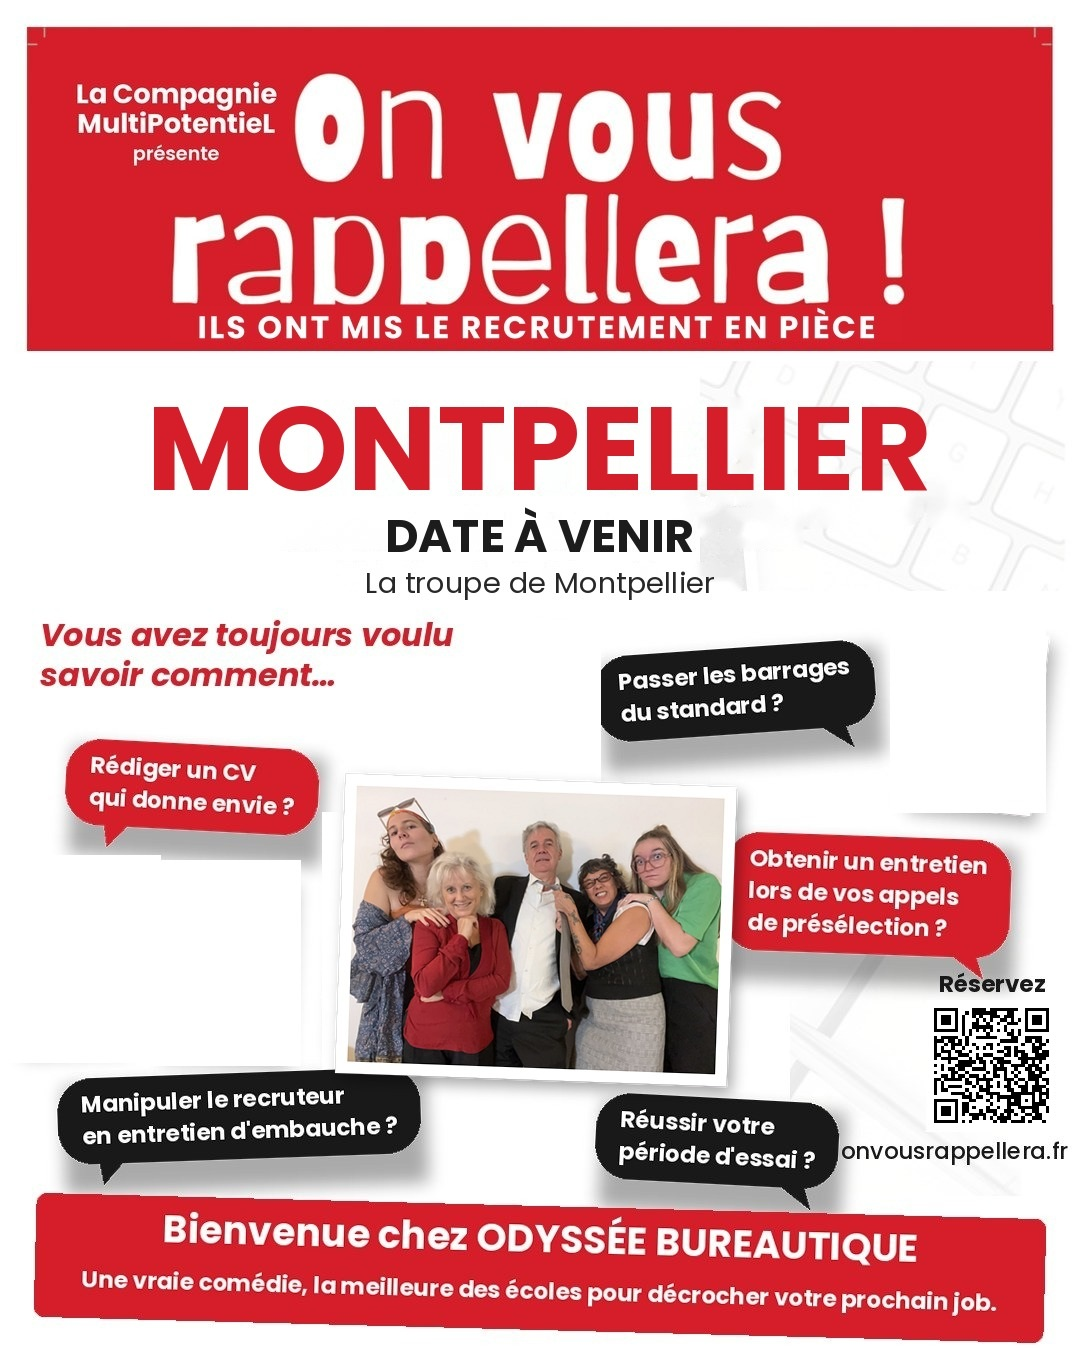
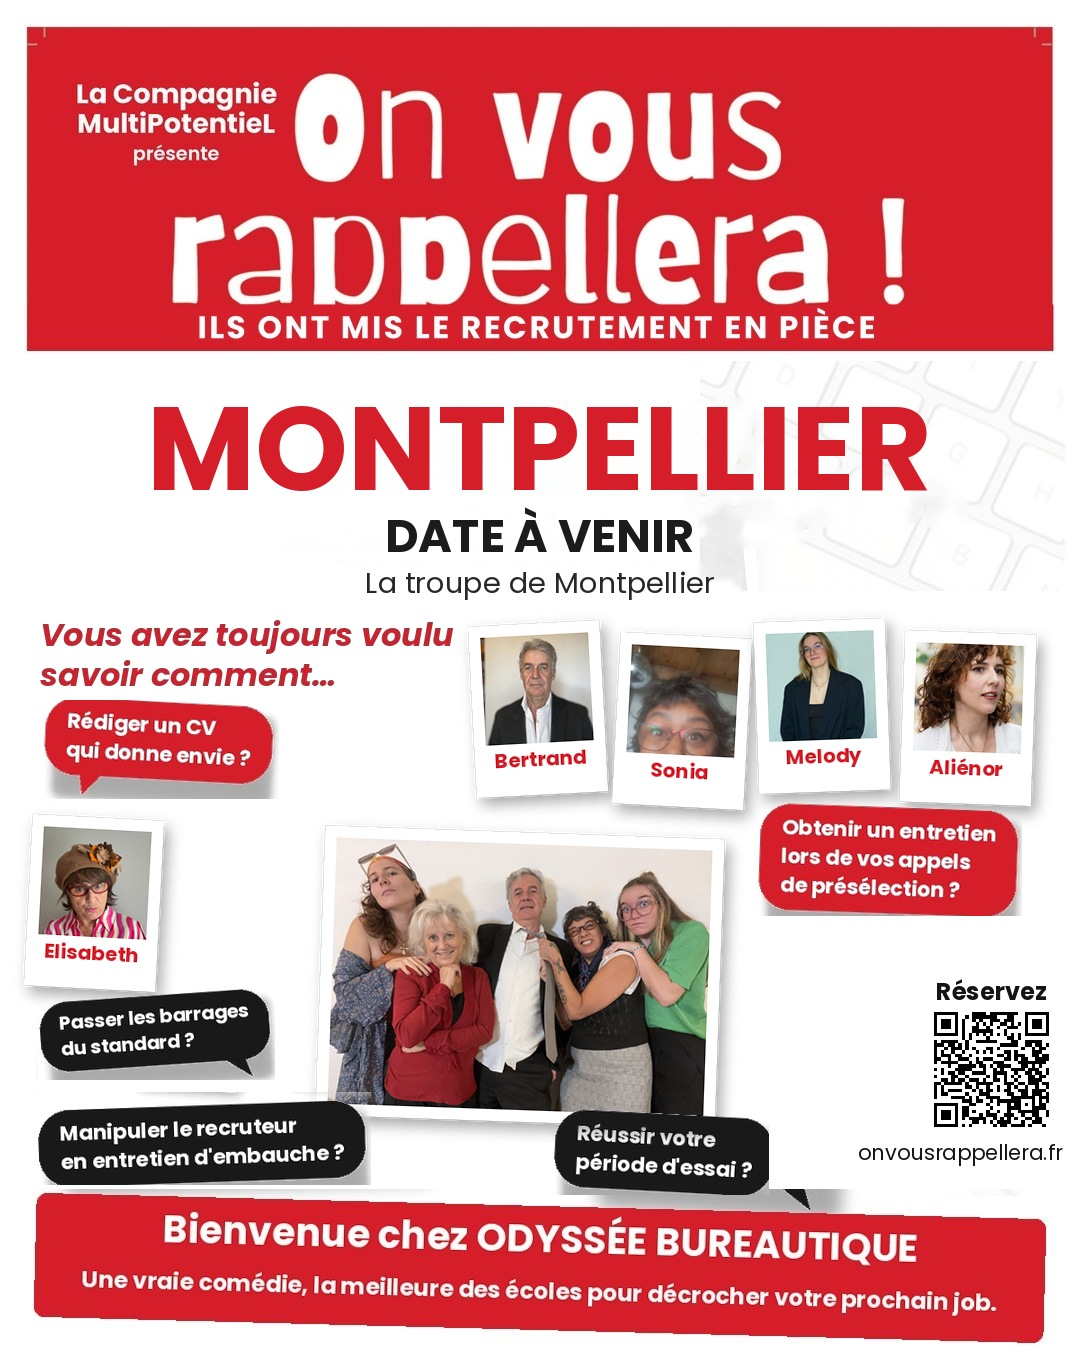
Affiches Honnêteté et Montpellier : portraits des comédiens + photo de groupe
Claude-Session: https://claude.ai/code/session_01Mm1mn477FPmfympm7mpipM

Changed region(s): [[0.0306, 0.4667, 1.0, 0.9022]]

diff --git a/affiches.html b/affiches.html
@@ -1,3 +1,3 @@
 <!doctype html><html lang="fr"><head><meta charset="utf-8"><meta name="viewport" content="width=device-width,initial-scale=1"><meta name="robots" content="noindex"><title>Les affiches des troupes — On Vous Rappellera</title>
 <style>body{margin:0;background:#fff;color:#191919;font-family:Poppins,Arial,sans-serif}main{max-width:1180px;margin:0 auto;padding:24px 16px 60px}h1{color:#d51e29;font-size:1.7rem;margin:.2rem 0 .3rem}p.intro{margin:0 0 1.6rem;color:#4a463f}.grid{display:grid;grid-template-columns:repeat(auto-fill,minmax(320px,1fr));gap:28px}figure{margin:0}figure h2{font-size:1.05rem;margin:0 0 .5rem;color:#d51e29}figure h2 span{color:#191919;font-weight:600}img{width:100%;height:auto;display:block;border:1px solid #ddd;border-radius:6px}figcaption{margin-top:.45rem}figcaption a{color:#0b57d0;text-decoration:underline}@media(max-width:700px){.grid{grid-template-columns:1fr}}</style></head>
-<body><main><h1>Les affiches de <b>ON VOUS RAPPELLERA</b></h1><p class="intro">Une affiche par représentation, avec la troupe qui joue ce soir-là. Cliquez sur une affiche pour l'ouvrir en grand, ou téléchargez-la pour la partager.</p><div class="grid"><figure><h2>TOULOUSE <span>Mercredi 2 décembre · 20h</span></h2><a href="assets/affiches/affiche-toulouse-0212-20h.jpg" target="_blank" rel="noopener"><img src="assets/affiches/affiche-toulouse-0212-20h.jpg" alt="Affiche TOULOUSE Mercredi 2 décembre · 20h" loading="lazy"></a><figcaption><a href="assets/affiches/affiche-toulouse-0212-20h.jpg" download>Télécharger l'affiche</a></figcaption></figure><figure><h2>RENNES <span>Mercredi 9 décembre · 20h</span></h2><a href="assets/affiches/affiche-rennes-0912-20h.jpg" target="_blank" rel="noopener"><img src="assets/affiches/affiche-rennes-0912-20h.jpg" alt="Affiche RENNES Mercredi 9 décembre · 20h" loading="lazy"></a><figcaption><a href="assets/affiches/affiche-rennes-0912-20h.jpg" download>Télécharger l'affiche</a></figcaption></figure><figure><h2>BORDEAUX <span>Jeudi 10 décembre · 18h30</span></h2><a href="assets/affiches/affiche-bordeaux-1012-1830.jpg?v=2" target="_blank" rel="noopener"><img src="assets/affiches/affiche-bordeaux-1012-1830.jpg?v=2" alt="Affiche BORDEAUX Jeudi 10 décembre · 18h30" loading="lazy"></a><figcaption><a href="assets/affiches/affiche-bordeaux-1012-1830.jpg?v=2" download>Télécharger l'affiche</a></figcaption></figure><figure><h2>BORDEAUX <span>Jeudi 10 décembre · 20h30</span></h2><a href="assets/affiches/affiche-bordeaux-1012-2030.jpg?v=2" target="_blank" rel="noopener"><img src="assets/affiches/affiche-bordeaux-1012-2030.jpg?v=2" alt="Affiche BORDEAUX Jeudi 10 décembre · 20h30" loading="lazy"></a><figcaption><a href="assets/affiches/affiche-bordeaux-1012-2030.jpg?v=2" download>Télécharger l'affiche</a></figcaption></figure><figure><h2>PARIS <span>Samedi 12 décembre · 21h30</span></h2><a href="assets/affiches/affiche-paris-1212-2130.jpg?v=5" target="_blank" rel="noopener"><img src="assets/affiches/affiche-paris-1212-2130.jpg?v=5" alt="Affiche PARIS Samedi 12 décembre · 21h30 — troupe Esprit d’équipe" loading="lazy"></a><figcaption><a href="assets/affiches/affiche-paris-1212-2130.jpg?v=5" download>Télécharger l'affiche</a></figcaption></figure><figure><h2>LYON <span>Mercredi 16 décembre · 19h</span></h2><a href="assets/affiches/affiche-lyon-1612-19h.jpg?v=20261020" target="_blank" rel="noopener"><img src="assets/affiches/affiche-lyon-1612-19h.jpg?v=20261020" alt="Affiche LYON Mercredi 16 décembre · 19h" loading="lazy"></a><figcaption><a href="assets/affiches/affiche-lyon-1612-19h.jpg?v=20261020" download>Télécharger l'affiche</a></figcaption></figure><figure><h2>LYON <span>Mercredi 16 décembre · 21h</span></h2><a href="assets/affiches/affiche-lyon-1612-21h.jpg?v=20261020" target="_blank" rel="noopener"><img src="assets/affiches/affiche-lyon-1612-21h.jpg?v=20261020" alt="Affiche LYON Mercredi 16 décembre · 21h" loading="lazy"></a><figcaption><a href="assets/affiches/affiche-lyon-1612-21h.jpg?v=20261020" download>Télécharger l'affiche</a></figcaption></figure><figure><h2>BORDEAUX <span>Jeudi 17 décembre · 18h30</span></h2><a href="assets/affiches/affiche-bordeaux-1712-1830.jpg?v=2" target="_blank" rel="noopener"><img src="assets/affiches/affiche-bordeaux-1712-1830.jpg?v=2" alt="Affiche BORDEAUX Jeudi 17 décembre · 18h30" loading="lazy"></a><figcaption><a href="assets/affiches/affiche-bordeaux-1712-1830.jpg?v=2" download>Télécharger l'affiche</a></figcaption></figure><figure><h2>BORDEAUX <span>Jeudi 17 décembre · 20h30</span></h2><a href="assets/affiches/affiche-bordeaux-1712-2030.jpg?v=2" target="_blank" rel="noopener"><img src="assets/affiches/affiche-bordeaux-1712-2030.jpg?v=2" alt="Affiche BORDEAUX Jeudi 17 décembre · 20h30" loading="lazy"></a><figcaption><a href="assets/affiches/affiche-bordeaux-1712-2030.jpg?v=2" download>Télécharger l'affiche</a></figcaption></figure><figure><h2>PARIS <span>Vendredi 18 décembre · 19h30</span></h2><a href="assets/affiches/affiche-paris-1812-1930.jpg?v=5" target="_blank" rel="noopener"><img src="assets/affiches/affiche-paris-1812-1930.jpg?v=5" alt="Affiche PARIS Vendredi 18 décembre · 19h30 — troupe Esprit d’équipe" loading="lazy"></a><figcaption><a href="assets/affiches/affiche-paris-1812-1930.jpg?v=5" download>Télécharger l'affiche</a></figcaption></figure><figure><h2>NANTES <span>Mardi 19 janvier · 21h</span></h2><a href="assets/affiches/affiche-nantes-1901-21h.jpg" target="_blank" rel="noopener"><img src="assets/affiches/affiche-nantes-1901-21h.jpg" alt="Affiche NANTES Mardi 19 janvier · 21h" loading="lazy"></a><figcaption><a href="assets/affiches/affiche-nantes-1901-21h.jpg" download>Télécharger l'affiche</a></figcaption></figure><figure><h2>MONTPELLIER <span>Date à venir</span></h2><a href="assets/affiches/affiche-montpellier-date-a-venir.jpg" target="_blank" rel="noopener"><img src="assets/affiches/affiche-montpellier-date-a-venir.jpg" alt="Affiche MONTPELLIER Date à venir" loading="lazy"></a><figcaption><a href="assets/affiches/affiche-montpellier-date-a-venir.jpg" download>Télécharger l'affiche</a></figcaption></figure><figure><h2>PARIS <span>Troupe Engagement · date à venir</span></h2><a href="assets/affiches/affiche-paris-engagement-date-a-venir.jpg" target="_blank" rel="noopener"><img src="assets/affiches/affiche-paris-engagement-date-a-venir.jpg" alt="Affiche PARIS Troupe Engagement · date à venir" loading="lazy"></a><figcaption><a href="assets/affiches/affiche-paris-engagement-date-a-venir.jpg" download>Télécharger l'affiche</a></figcaption></figure><figure><h2>PARIS <span>Troupe Honnêteté · date à venir</span></h2><a href="assets/affiches/affiche-paris-honnetete-date-a-venir.jpg" target="_blank" rel="noopener"><img src="assets/affiches/affiche-paris-honnetete-date-a-venir.jpg" alt="Affiche PARIS Troupe Honnêteté · date à venir" loading="lazy"></a><figcaption><a href="assets/affiches/affiche-paris-honnetete-date-a-venir.jpg" download>Télécharger l'affiche</a></figcaption></figure></div></main></body></html>
+<body><main><h1>Les affiches de <b>ON VOUS RAPPELLERA</b></h1><p class="intro">Une affiche par représentation, avec la troupe qui joue ce soir-là. Cliquez sur une affiche pour l'ouvrir en grand, ou téléchargez-la pour la partager.</p><div class="grid"><figure><h2>TOULOUSE <span>Mercredi 2 décembre · 20h</span></h2><a href="assets/affiches/affiche-toulouse-0212-20h.jpg" target="_blank" rel="noopener"><img src="assets/affiches/affiche-toulouse-0212-20h.jpg" alt="Affiche TOULOUSE Mercredi 2 décembre · 20h" loading="lazy"></a><figcaption><a href="assets/affiches/affiche-toulouse-0212-20h.jpg" download>Télécharger l'affiche</a></figcaption></figure><figure><h2>RENNES <span>Mercredi 9 décembre · 20h</span></h2><a href="assets/affiches/affiche-rennes-0912-20h.jpg" target="_blank" rel="noopener"><img src="assets/affiches/affiche-rennes-0912-20h.jpg" alt="Affiche RENNES Mercredi 9 décembre · 20h" loading="lazy"></a><figcaption><a href="assets/affiches/affiche-rennes-0912-20h.jpg" download>Télécharger l'affiche</a></figcaption></figure><figure><h2>BORDEAUX <span>Jeudi 10 décembre · 18h30</span></h2><a href="assets/affiches/affiche-bordeaux-1012-1830.jpg?v=2" target="_blank" rel="noopener"><img src="assets/affiches/affiche-bordeaux-1012-1830.jpg?v=2" alt="Affiche BORDEAUX Jeudi 10 décembre · 18h30" loading="lazy"></a><figcaption><a href="assets/affiches/affiche-bordeaux-1012-1830.jpg?v=2" download>Télécharger l'affiche</a></figcaption></figure><figure><h2>BORDEAUX <span>Jeudi 10 décembre · 20h30</span></h2><a href="assets/affiches/affiche-bordeaux-1012-2030.jpg?v=2" target="_blank" rel="noopener"><img src="assets/affiches/affiche-bordeaux-1012-2030.jpg?v=2" alt="Affiche BORDEAUX Jeudi 10 décembre · 20h30" loading="lazy"></a><figcaption><a href="assets/affiches/affiche-bordeaux-1012-2030.jpg?v=2" download>Télécharger l'affiche</a></figcaption></figure><figure><h2>PARIS <span>Samedi 12 décembre · 21h30</span></h2><a href="assets/affiches/affiche-paris-1212-2130.jpg?v=5" target="_blank" rel="noopener"><img src="assets/affiches/affiche-paris-1212-2130.jpg?v=5" alt="Affiche PARIS Samedi 12 décembre · 21h30 — troupe Esprit d’équipe" loading="lazy"></a><figcaption><a href="assets/affiches/affiche-paris-1212-2130.jpg?v=5" download>Télécharger l'affiche</a></figcaption></figure><figure><h2>LYON <span>Mercredi 16 décembre · 19h</span></h2><a href="assets/affiches/affiche-lyon-1612-19h.jpg?v=20261020" target="_blank" rel="noopener"><img src="assets/affiches/affiche-lyon-1612-19h.jpg?v=20261020" alt="Affiche LYON Mercredi 16 décembre · 19h" loading="lazy"></a><figcaption><a href="assets/affiches/affiche-lyon-1612-19h.jpg?v=20261020" download>Télécharger l'affiche</a></figcaption></figure><figure><h2>LYON <span>Mercredi 16 décembre · 21h</span></h2><a href="assets/affiches/affiche-lyon-1612-21h.jpg?v=20261020" target="_blank" rel="noopener"><img src="assets/affiches/affiche-lyon-1612-21h.jpg?v=20261020" alt="Affiche LYON Mercredi 16 décembre · 21h" loading="lazy"></a><figcaption><a href="assets/affiches/affiche-lyon-1612-21h.jpg?v=20261020" download>Télécharger l'affiche</a></figcaption></figure><figure><h2>BORDEAUX <span>Jeudi 17 décembre · 18h30</span></h2><a href="assets/affiches/affiche-bordeaux-1712-1830.jpg?v=2" target="_blank" rel="noopener"><img src="assets/affiches/affiche-bordeaux-1712-1830.jpg?v=2" alt="Affiche BORDEAUX Jeudi 17 décembre · 18h30" loading="lazy"></a><figcaption><a href="assets/affiches/affiche-bordeaux-1712-1830.jpg?v=2" download>Télécharger l'affiche</a></figcaption></figure><figure><h2>BORDEAUX <span>Jeudi 17 décembre · 20h30</span></h2><a href="assets/affiches/affiche-bordeaux-1712-2030.jpg?v=2" target="_blank" rel="noopener"><img src="assets/affiches/affiche-bordeaux-1712-2030.jpg?v=2" alt="Affiche BORDEAUX Jeudi 17 décembre · 20h30" loading="lazy"></a><figcaption><a href="assets/affiches/affiche-bordeaux-1712-2030.jpg?v=2" download>Télécharger l'affiche</a></figcaption></figure><figure><h2>PARIS <span>Vendredi 18 décembre · 19h30</span></h2><a href="assets/affiches/affiche-paris-1812-1930.jpg?v=5" target="_blank" rel="noopener"><img src="assets/affiches/affiche-paris-1812-1930.jpg?v=5" alt="Affiche PARIS Vendredi 18 décembre · 19h30 — troupe Esprit d’équipe" loading="lazy"></a><figcaption><a href="assets/affiches/affiche-paris-1812-1930.jpg?v=5" download>Télécharger l'affiche</a></figcaption></figure><figure><h2>NANTES <span>Mardi 19 janvier · 21h</span></h2><a href="assets/affiches/affiche-nantes-1901-21h.jpg" target="_blank" rel="noopener"><img src="assets/affiches/affiche-nantes-1901-21h.jpg" alt="Affiche NANTES Mardi 19 janvier · 21h" loading="lazy"></a><figcaption><a href="assets/affiches/affiche-nantes-1901-21h.jpg" download>Télécharger l'affiche</a></figcaption></figure><figure><h2>MONTPELLIER <span>Date à venir</span></h2><a href="assets/affiches/affiche-montpellier-date-a-venir.jpg?v=2" target="_blank" rel="noopener"><img src="assets/affiches/affiche-montpellier-date-a-venir.jpg?v=2" alt="Affiche MONTPELLIER Date à venir" loading="lazy"></a><figcaption><a href="assets/affiches/affiche-montpellier-date-a-venir.jpg?v=2" download>Télécharger l'affiche</a></figcaption></figure><figure><h2>PARIS <span>Troupe Engagement · date à venir</span></h2><a href="assets/affiches/affiche-paris-engagement-date-a-venir.jpg" target="_blank" rel="noopener"><img src="assets/affiches/affiche-paris-engagement-date-a-venir.jpg" alt="Affiche PARIS Troupe Engagement · date à venir" loading="lazy"></a><figcaption><a href="assets/affiches/affiche-paris-engagement-date-a-venir.jpg" download>Télécharger l'affiche</a></figcaption></figure><figure><h2>PARIS <span>Troupe Honnêteté · date à venir</span></h2><a href="assets/affiches/affiche-paris-honnetete-date-a-venir.jpg?v=2" target="_blank" rel="noopener"><img src="assets/affiches/affiche-paris-honnetete-date-a-venir.jpg?v=2" alt="Affiche PARIS Troupe Honnêteté · date à venir" loading="lazy"></a><figcaption><a href="assets/affiches/affiche-paris-honnetete-date-a-venir.jpg?v=2" download>Télécharger l'affiche</a></figcaption></figure></div></main></body></html>
